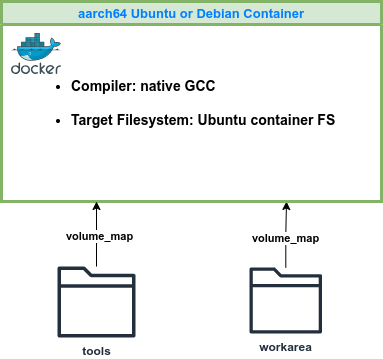
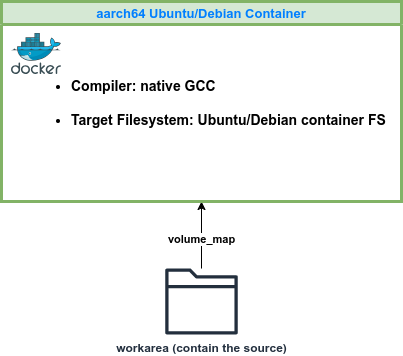
Updaded README.md and added the license

diff --git a/README.md b/README.md
@@ -1,7 +1,7 @@
 Vision-Apps Library Build for Target Ubuntu/Debian
 ==================================================
 
-Docker-based build system for Vision-Apps library. Supported use cases include:
+This build system covers building the Vision-Apps Linux library for Ubuntu/Debian systems running on TI's EdgeAI processors (TDA4VM, AM62A, AM67A, AM68A, and AM69A). Supported use cases include:
 - **Case 1**: Compiling with the native GCC in arm64v8 Ubuntu Docker container directly on aarch64 build machine
 - **Case 2**: Compiling with the native GCC in arm64v8 Ubuntu Docker container on x86_64 machine using QEMU
 - **Case 3** (Experimental): Cross-compiling on x86_64 build machine in Ubuntu Docker container
@@ -9,7 +9,7 @@ Docker-based build system for Vision-Apps library. Supported use cases include:
 <table>
   <tr>
     <td>
-      <img src="docs/diagram_aarch64_container.png" alt="Image 2" style="width: 383px;"/>
+      <img src="docs/diagram_aarch64_container.png" alt="Image 2" style="width: 403px;"/>
       <br>
       <center><em>CASE 1 and CASE 2 with aarch64 Container</em></center>
     </td>
